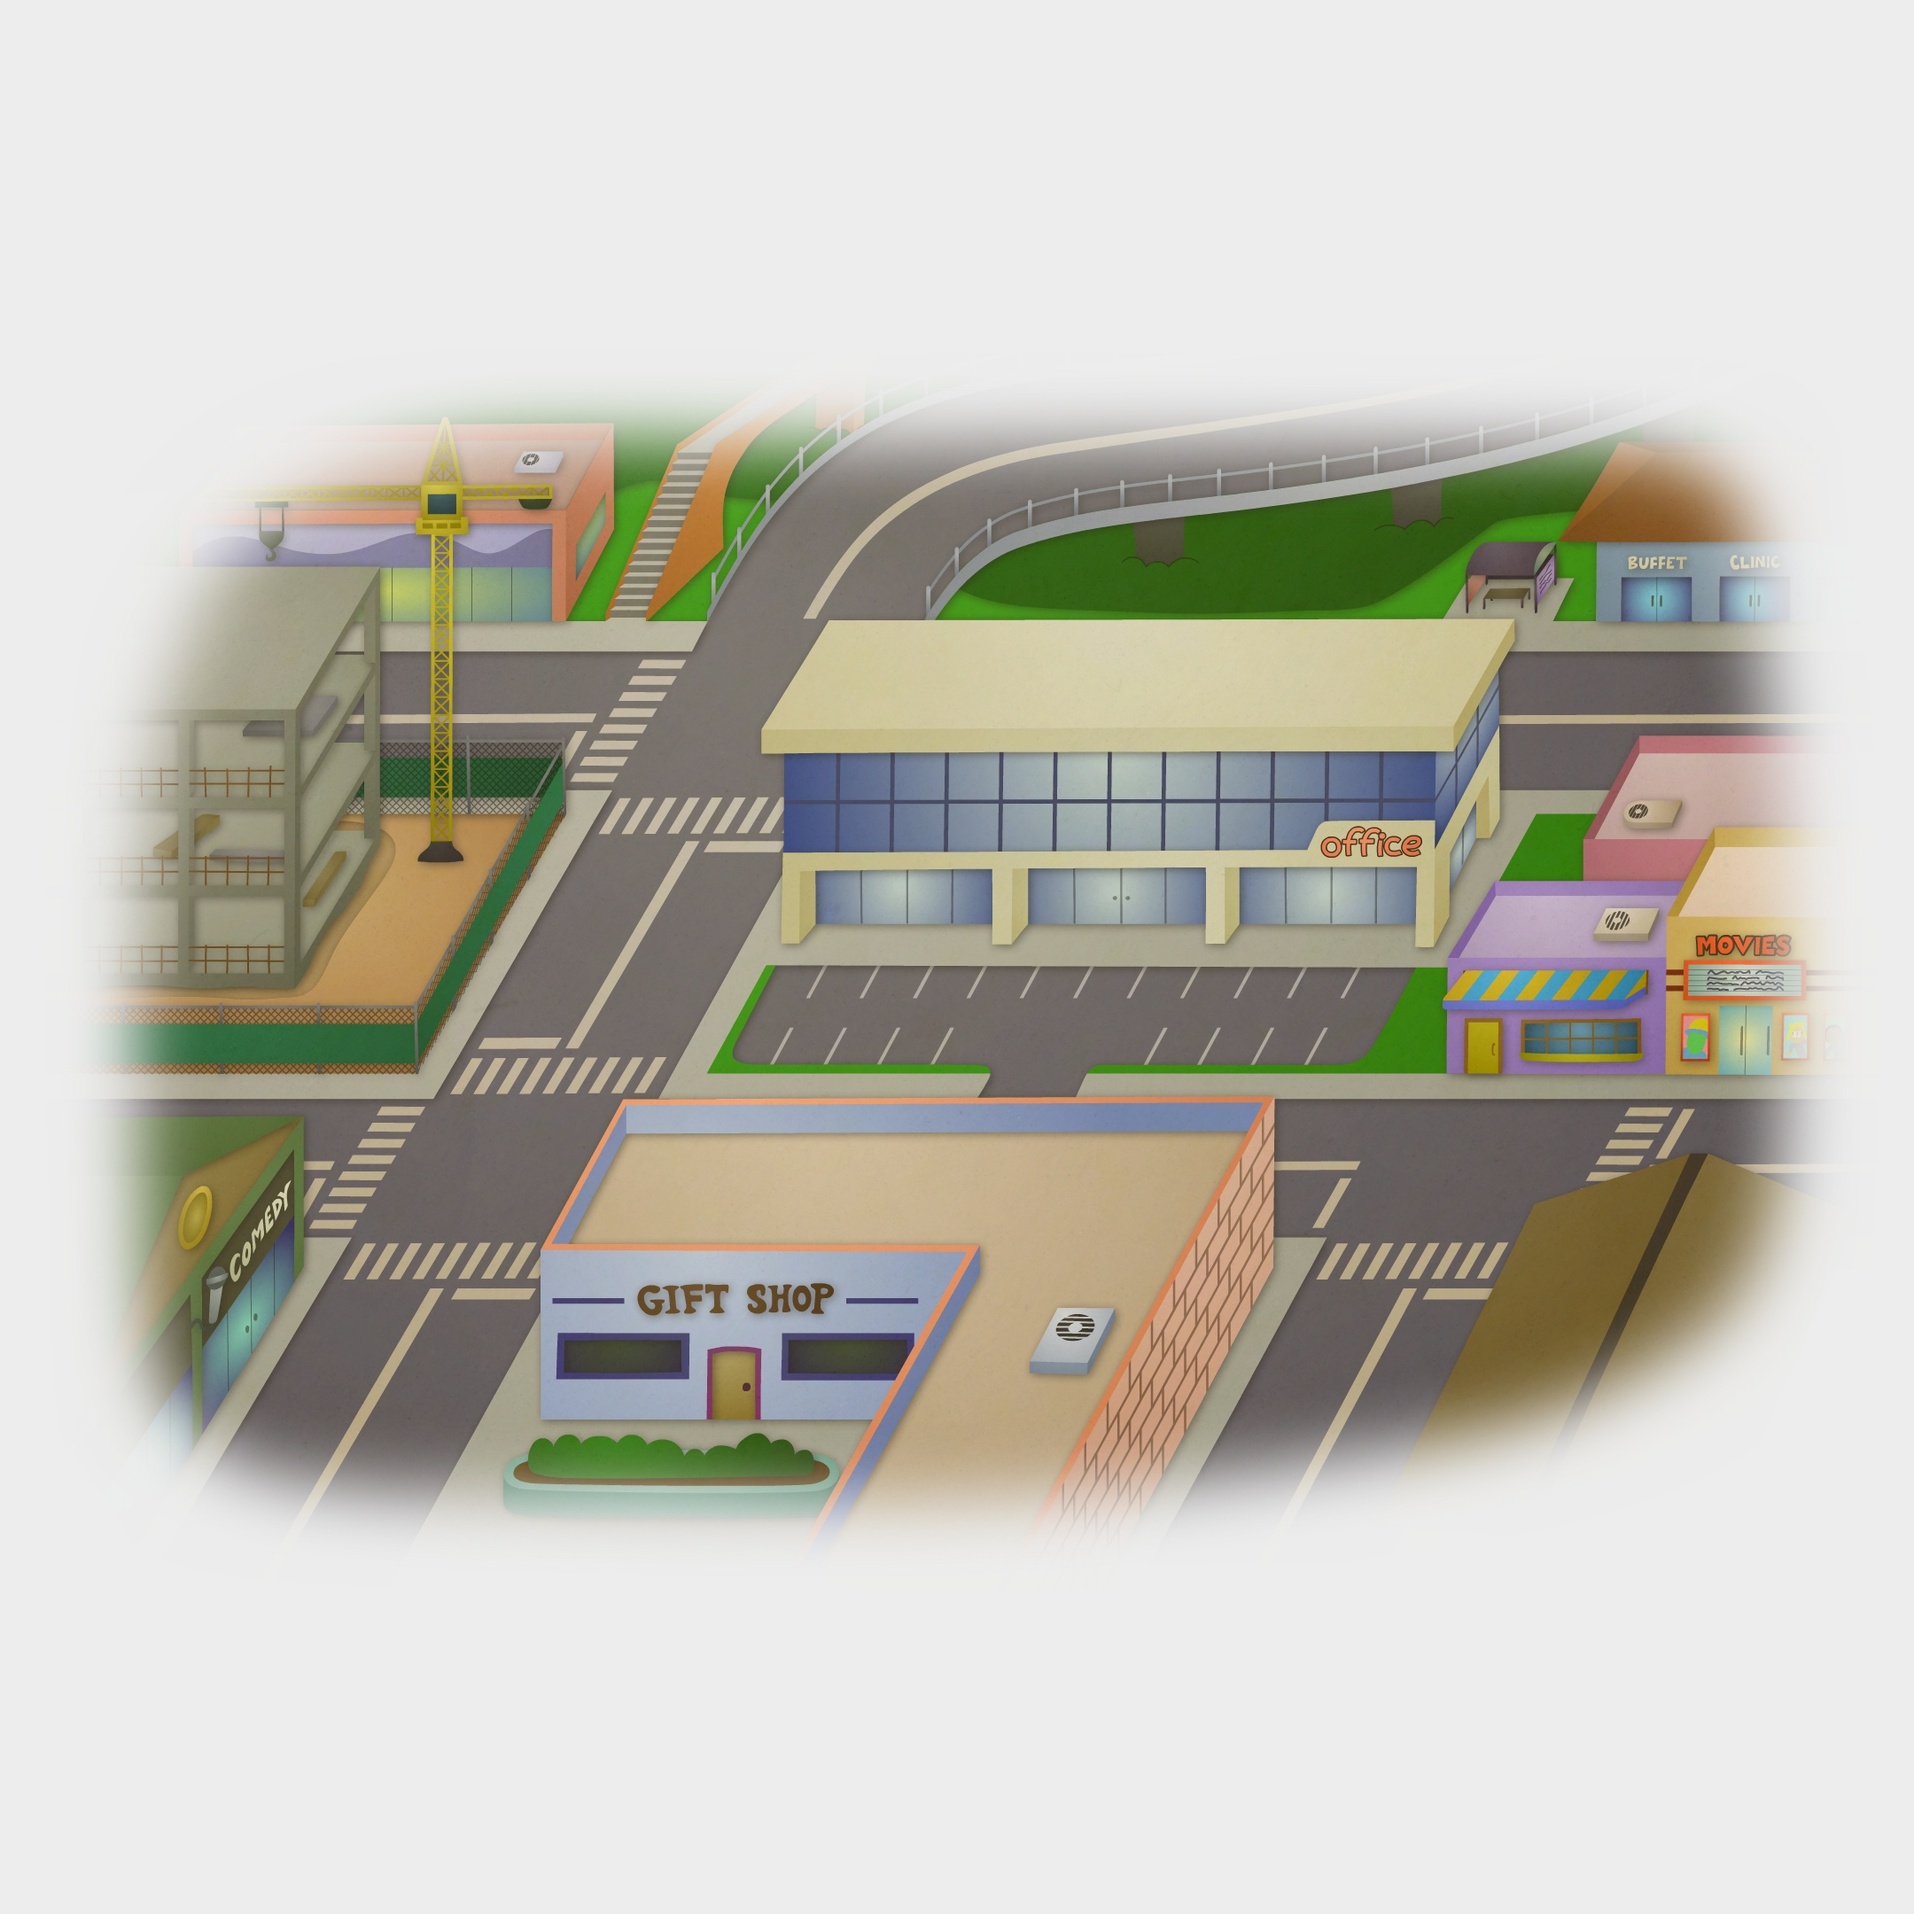
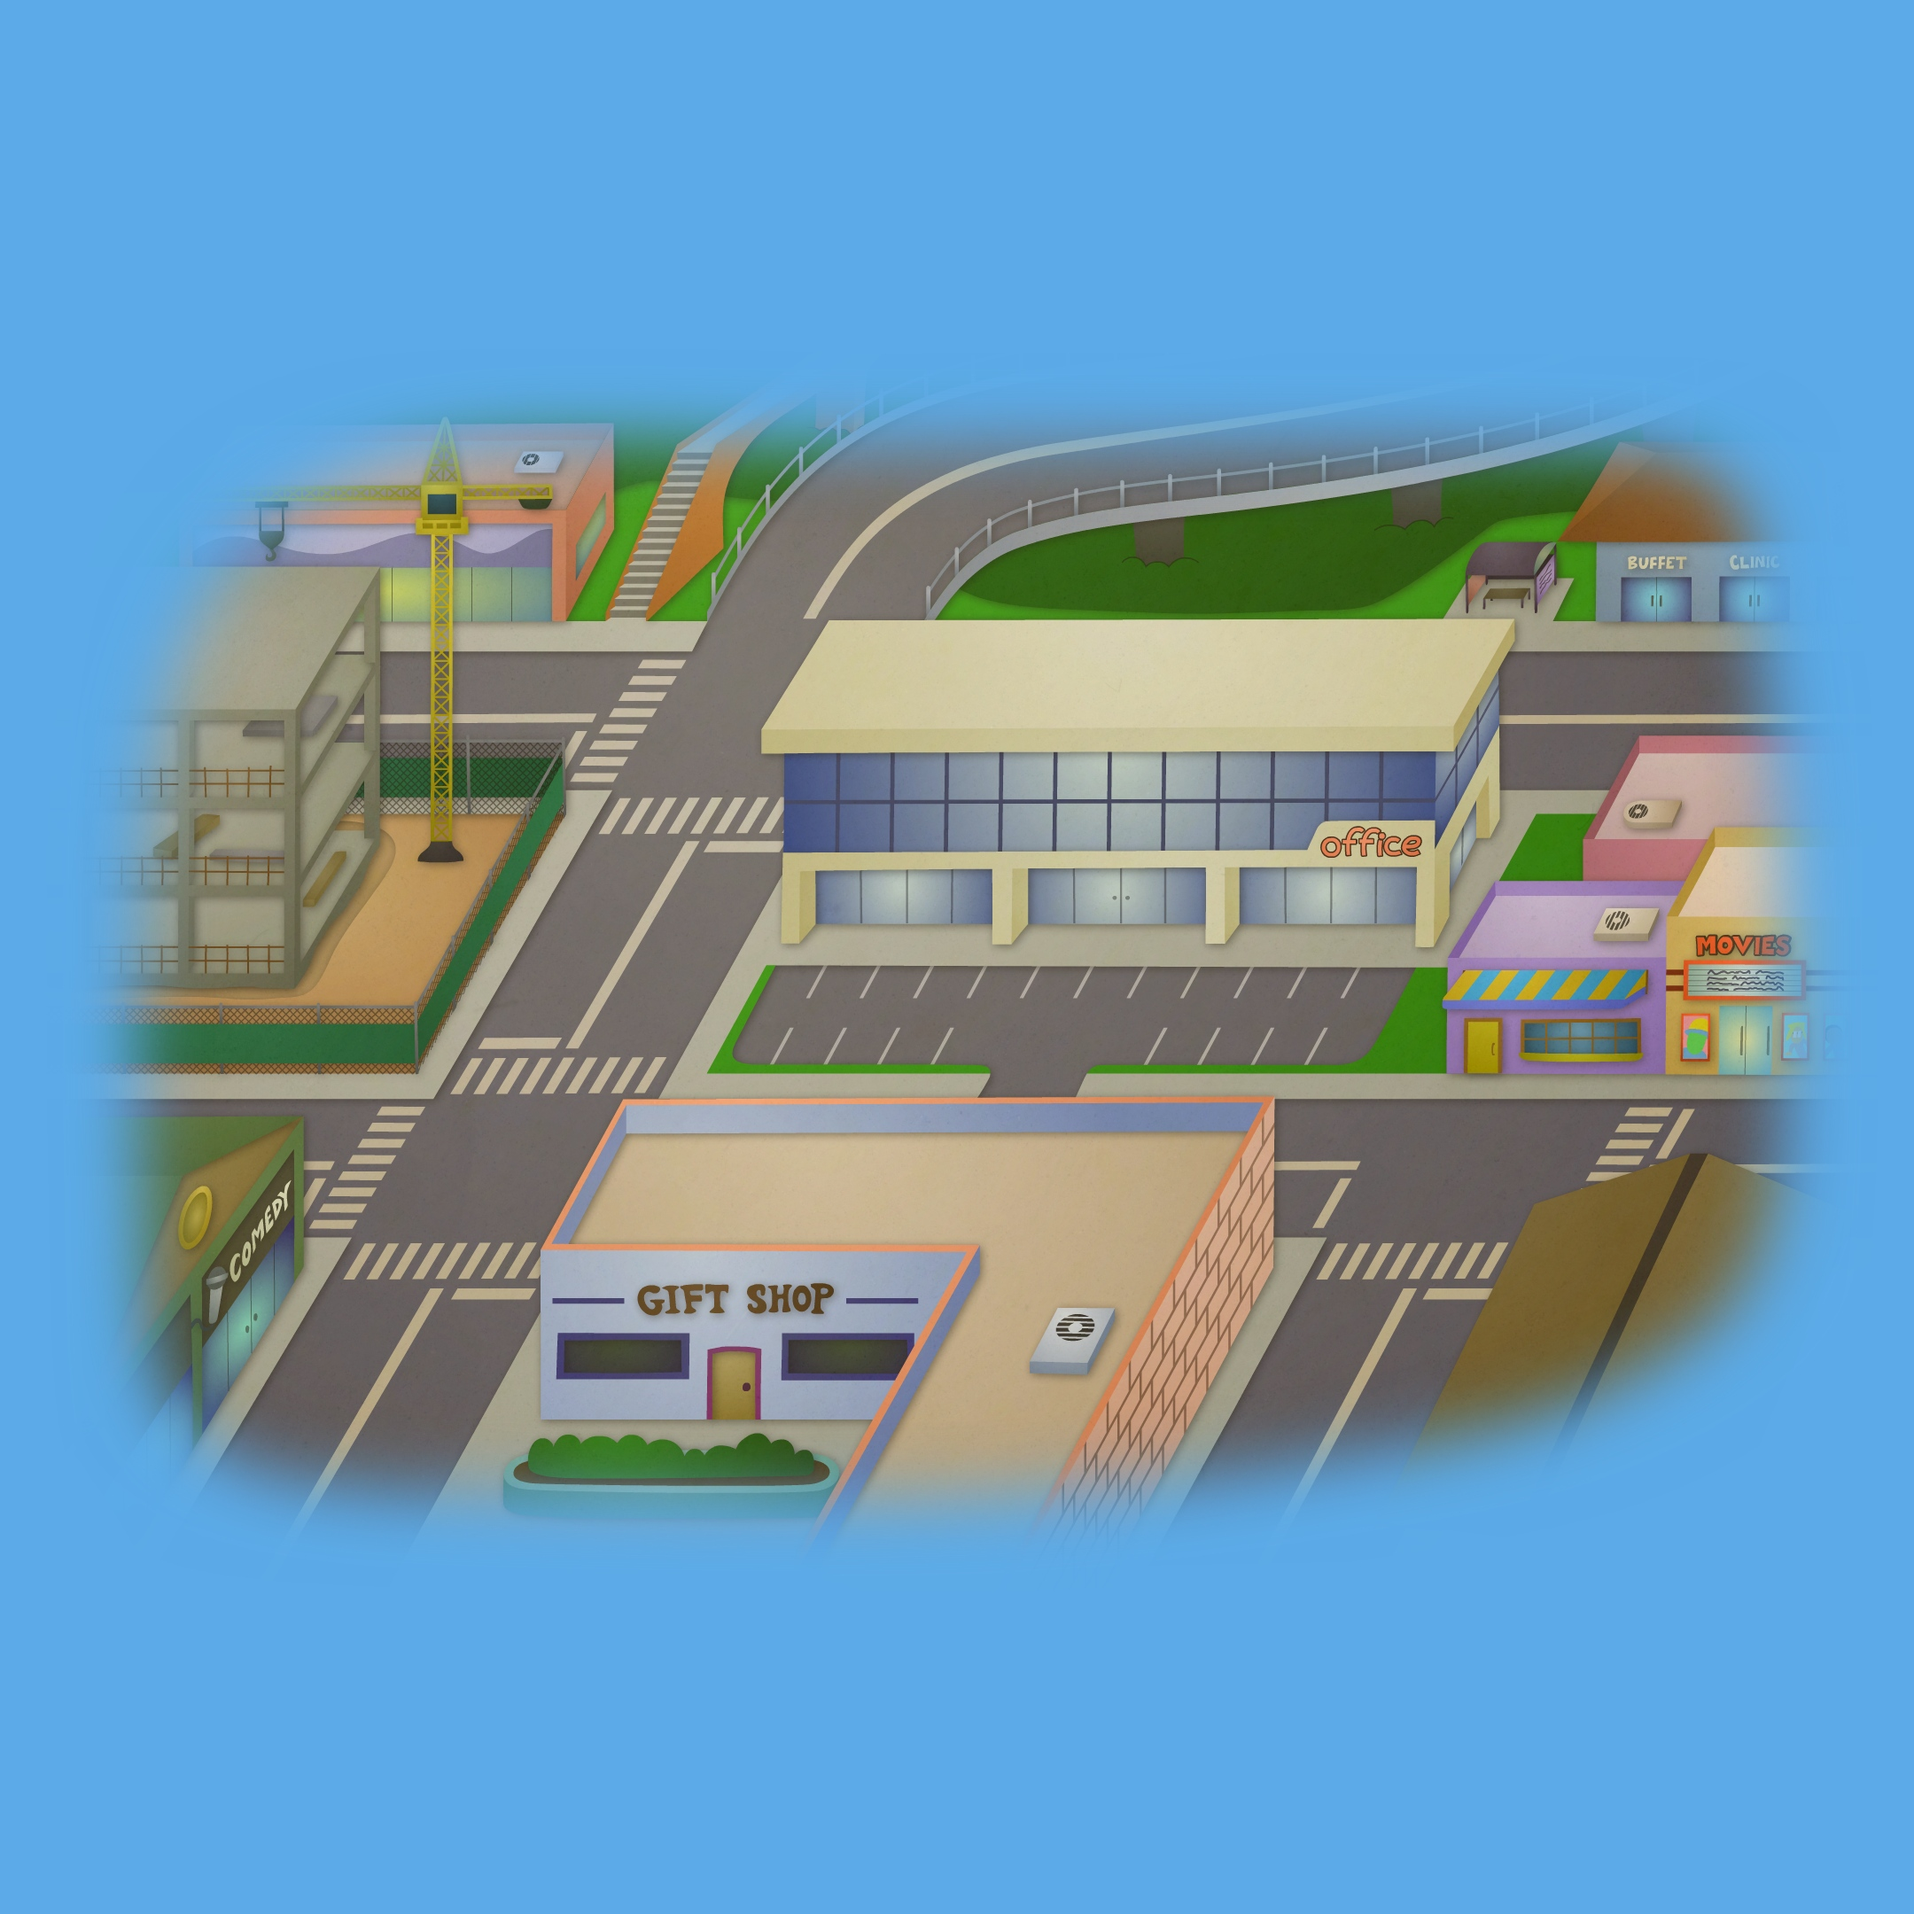
Add new background color and allow for smooth transitions between island images

diff --git a/frontend/src/constants/regions.js b/frontend/src/constants/regions.js
@@ -10,15 +10,15 @@ const regions = [
     name: "Palm Tree Paradise",
     code: "beach",
     position: [23, 21],
-    zoom: [6, 23.5, 22.5],
+    zoom: [3, 23, 19],
     arrow: [80, "down"],
     color: "#b3e89f",
     divisions: [
       {
         name: "West",
         code: "west",
-        position: [-108, -87],
-        arrow: [50, "down"],
+        position: [-32, -25],
+        arrow: [80, "down"],
         image: BeachWest,
         direction: [-40, 0],
         exit: [87, 40],
@@ -26,8 +26,8 @@ const regions = [
       {
         name: "East",
         code: "east",
-        position: [-77, -89],
-        arrow: [50, "down"],
+        position: [-12, -4],
+        arrow: [20, "up"],
         image: BeachEast,
         direction: [40, 0],
         exit: [17, 41],
@@ -39,15 +39,15 @@ const regions = [
     name: "Commute City",
     code: "city",
     position: [50, 61],
-    zoom: [4, 0, 3.5],
+    zoom: [3, 0, 4],
     arrow: [50, "up"],
     color: "#adcaf5",
     divisions: [
       {
         name: "Downtown",
         code: "downtown",
-        position: [45, 50],
-        arrow: [50, "down"],
+        position: [41, 48],
+        arrow: [80, "down"],
         image: CityDowntown,
         direction: [-30, 45],
         exit: [42, 14],
@@ -55,8 +55,8 @@ const regions = [
       {
         name: "Uptown",
         code: "uptown",
-        position: [54, 12],
-        arrow: [50, "down"],
+        position: [58, 16],
+        arrow: [20, "down"],
         image: CityUptown,
         direction: [30, -45],
         exit: [19, 78],
@@ -68,15 +68,15 @@ const regions = [
     name: "The Rage Room",
     code: "club",
     position: [76, 19],
-    zoom: [5, -20, 21],
+    zoom: [3, -18, 15],
     arrow: [20, "down"],
     color: "#ede096",
     divisions: [
       {
         name: "Lower Level",
         code: "lower",
-        position: [140, -48],
-        arrow: [50, "down"],
+        position: [97, 7],
+        arrow: [80, "up"],
         image: ClubLower,
         direction: [-40, 15],
         exit: [80, 69],
@@ -84,8 +84,8 @@ const regions = [
       {
         name: "Upper Level",
         code: "upper",
-        position: [160, -72],
-        arrow: [50, "down"],
+        position: [123, -15],
+        arrow: [20, "down"],
         image: ClubUpper,
         direction: [40, -15],
         exit: [42, 72],

diff --git a/frontend/src/components/Island.jsx b/frontend/src/components/Island.jsx
@@ -7,6 +7,7 @@ import { AnimatePresence, motion } from 'motion/react';
 import projectsAPI from '../api/ProjectsAPI.js';
 import regions from '../constants/regions.js';
 import SmileIsle from '../assets/Smile Isle.jpg';
+import MainBlur from '../assets/Main Blur.png';
 
 const Island = (props) => {
   const { setOpenProject, setOpenMiscWindow, isAdmin } = props;
@@ -51,8 +52,36 @@ const Island = (props) => {
 
   return (
     <div className="island" ref={islandRef}>
-      <AnimatePresence mode="wait">
+      <AnimatePresence custom={focusRegion}>
+        {(!focusDivision && focusRegion) && <motion.div
+          className="islandBlurDiv"
+          custom={focusRegion}
+          initial={{opacity: 0}}
+          animate={{
+            opacity: 1,
+            transition: {
+              ease: "easeInOut",
+              duration: 0.1,
+            },
+          }}
+          exit="exit"
+          variants={{
+            exit: (focusRegion) => {
+              return {
+                opacity: 0,
+                transition: focusRegion
+                  ? {ease: "easeInOut", duration: 0.2, delay: 0.2}
+                  : {ease: "easeInOut", duration: 0.2, delay: 0.4},
+              };
+            }}
+          }
+        >
+          <img src={MainBlur} className="islandBlur" />
+        </motion.div>}
+      </AnimatePresence>
+      <AnimatePresence>
         {!focusDivision && <motion.div
+          key="smileIsle"
           className="smileIsle"
           initial={{
             opacity: 0,
@@ -134,7 +163,7 @@ const Island = (props) => {
               transition: {ease: [.1, .5, .67, 1], duration: 0.3},
             }}
             exit={{
-              opacity: 0,
+              opacity: 0.2,
               x: loadedDivision.direction ? loadedDivision.direction[0] : 0,
               y: loadedDivision.direction ? loadedDivision.direction[1] : 0,
               transition: {ease: [.5, 0, 1, .67], duration: 0.2},

diff --git a/frontend/src/stylesheets/Island.css b/frontend/src/stylesheets/Island.css
@@ -17,7 +17,7 @@
   line-height: 24px;
   cursor: pointer;
   position: absolute;
-  z-index: 2;
+  z-index: 4;
   pointer-events: auto;
 }
 
@@ -139,11 +139,6 @@
   transform: translateX(0.35em);
 }
 
-.smileIsle {
-  width: 100%;
-  aspect-ratio: 1.45;
-}
-
 .regionDivisions {
   width: 100%;
   height: 100%;
@@ -258,6 +253,11 @@
   opacity: 0;
 }
 
+.smileIsle {
+  width: 100%;
+  aspect-ratio: 1.45;
+}
+
 .islandImage {
   position: absolute;
   top: 0;
@@ -267,6 +267,23 @@
   object-fit: cover;
   pointer-events: none;
   user-select: none;
+}
+
+.islandBlurDiv {
+  position: absolute;
+  top: 0;
+  left: 0;
+  width: 100%;
+  height: 100%;
+  z-index: 2;
+  pointer-events: none;
+  user-select: none;
+}
+
+.islandBlur {
+  width: 100%;
+  height: 100%;
+  object-fit: cover;
 }
 
 .regionPresence {

diff --git a/frontend/src/stylesheets/index.css b/frontend/src/stylesheets/index.css
@@ -7,7 +7,7 @@
 
   color-scheme: light;
   color: #121212;
-  background-color: #ededed;
+  background-color: #5cabe8;
 
   font-synthesis: none;
   text-rendering: optimizeLegibility;
